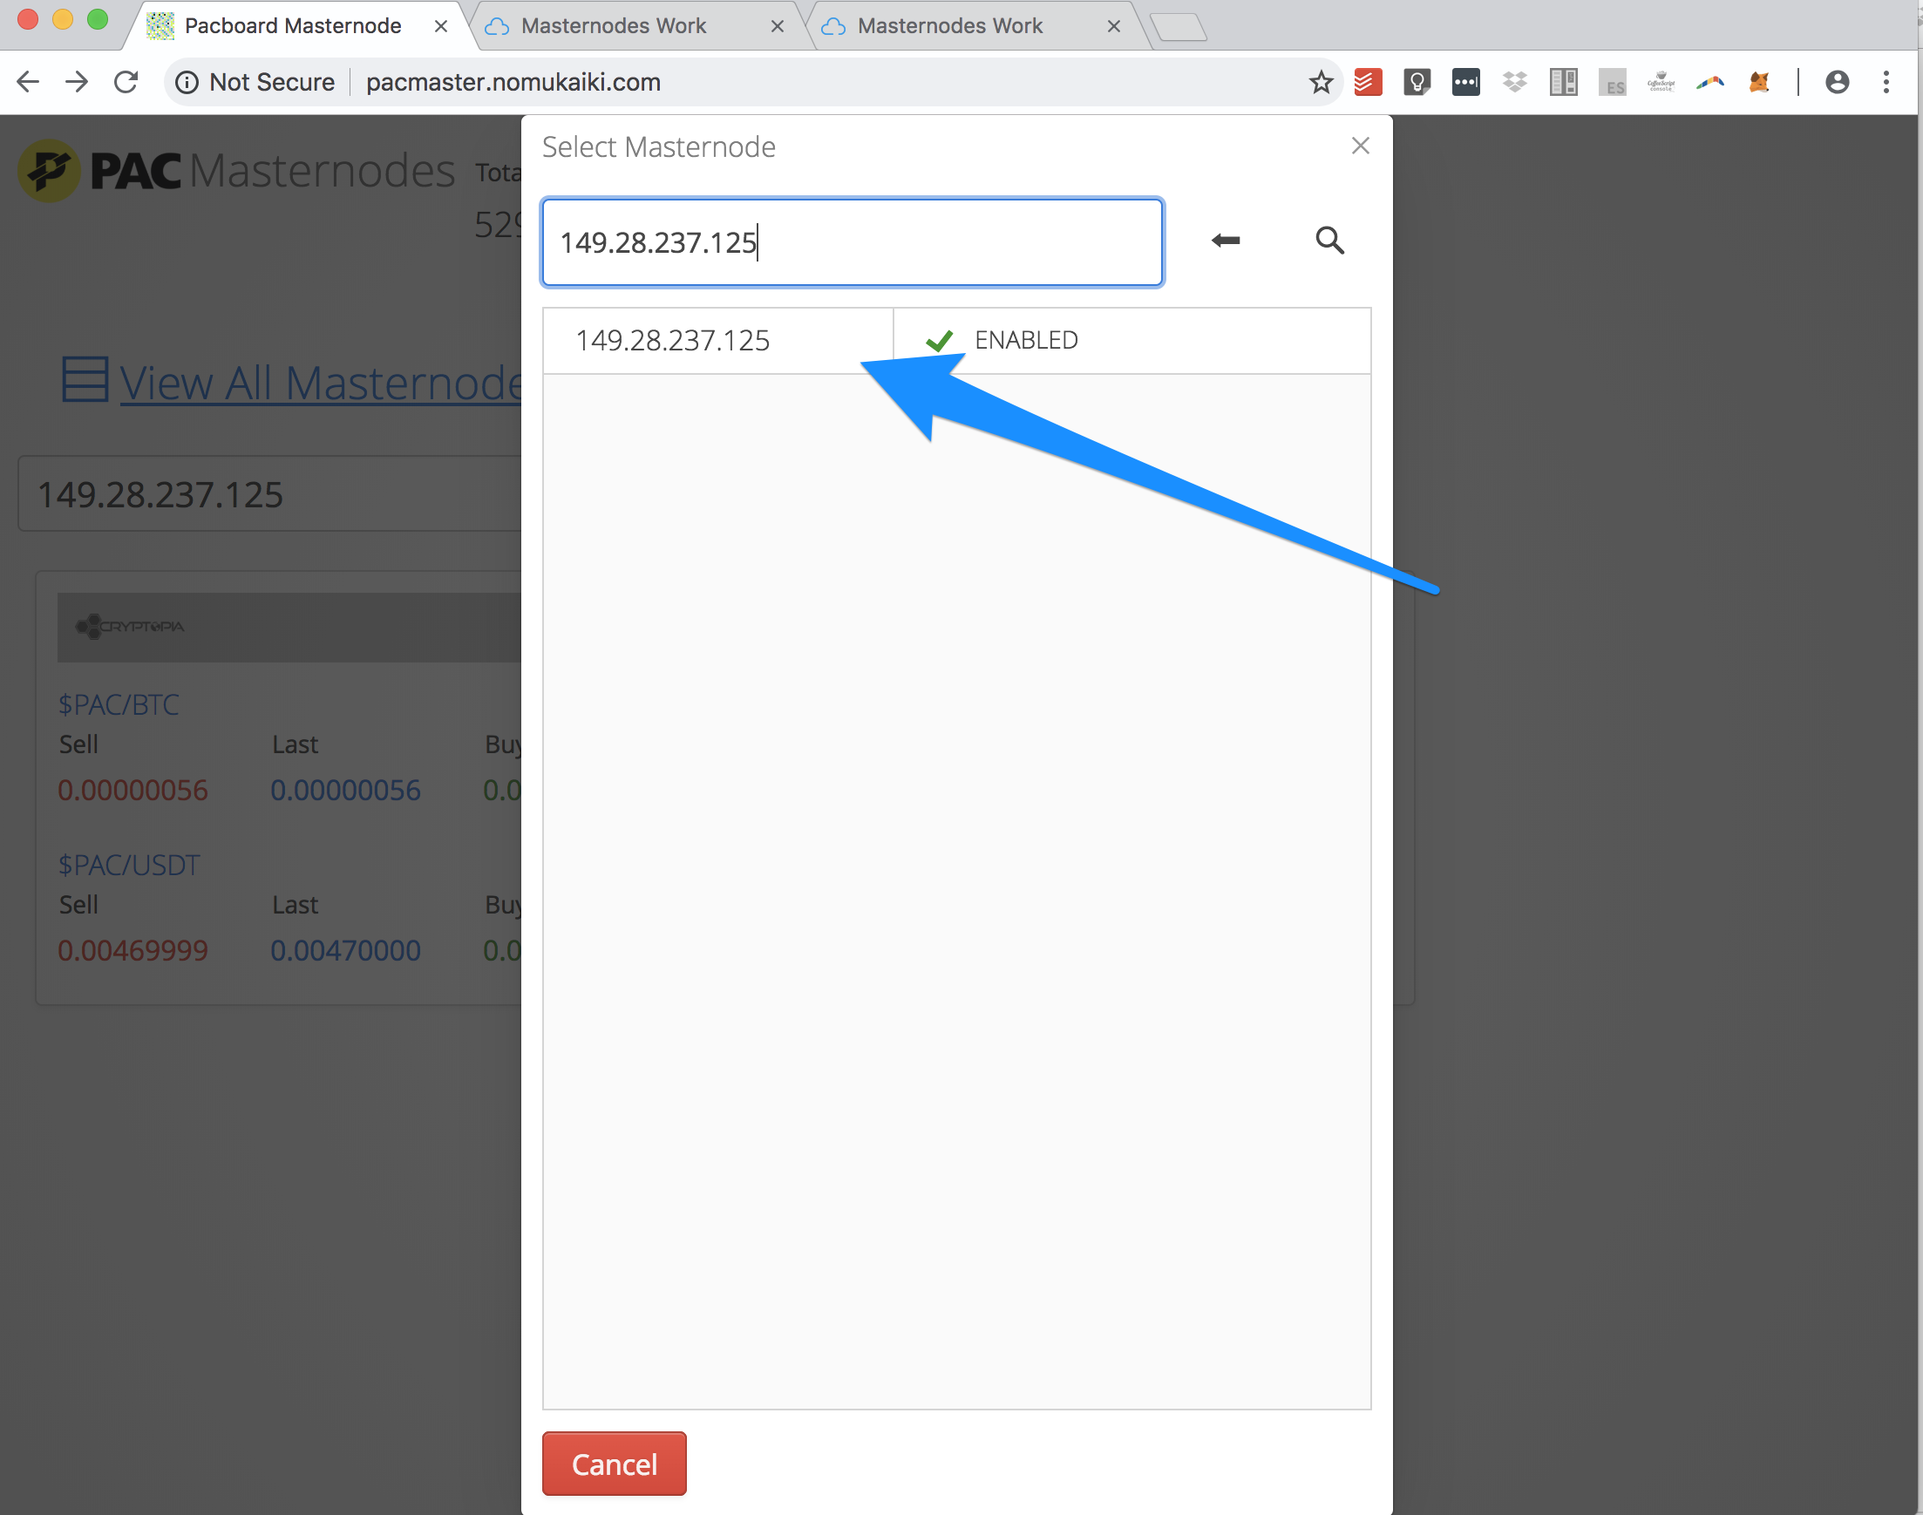
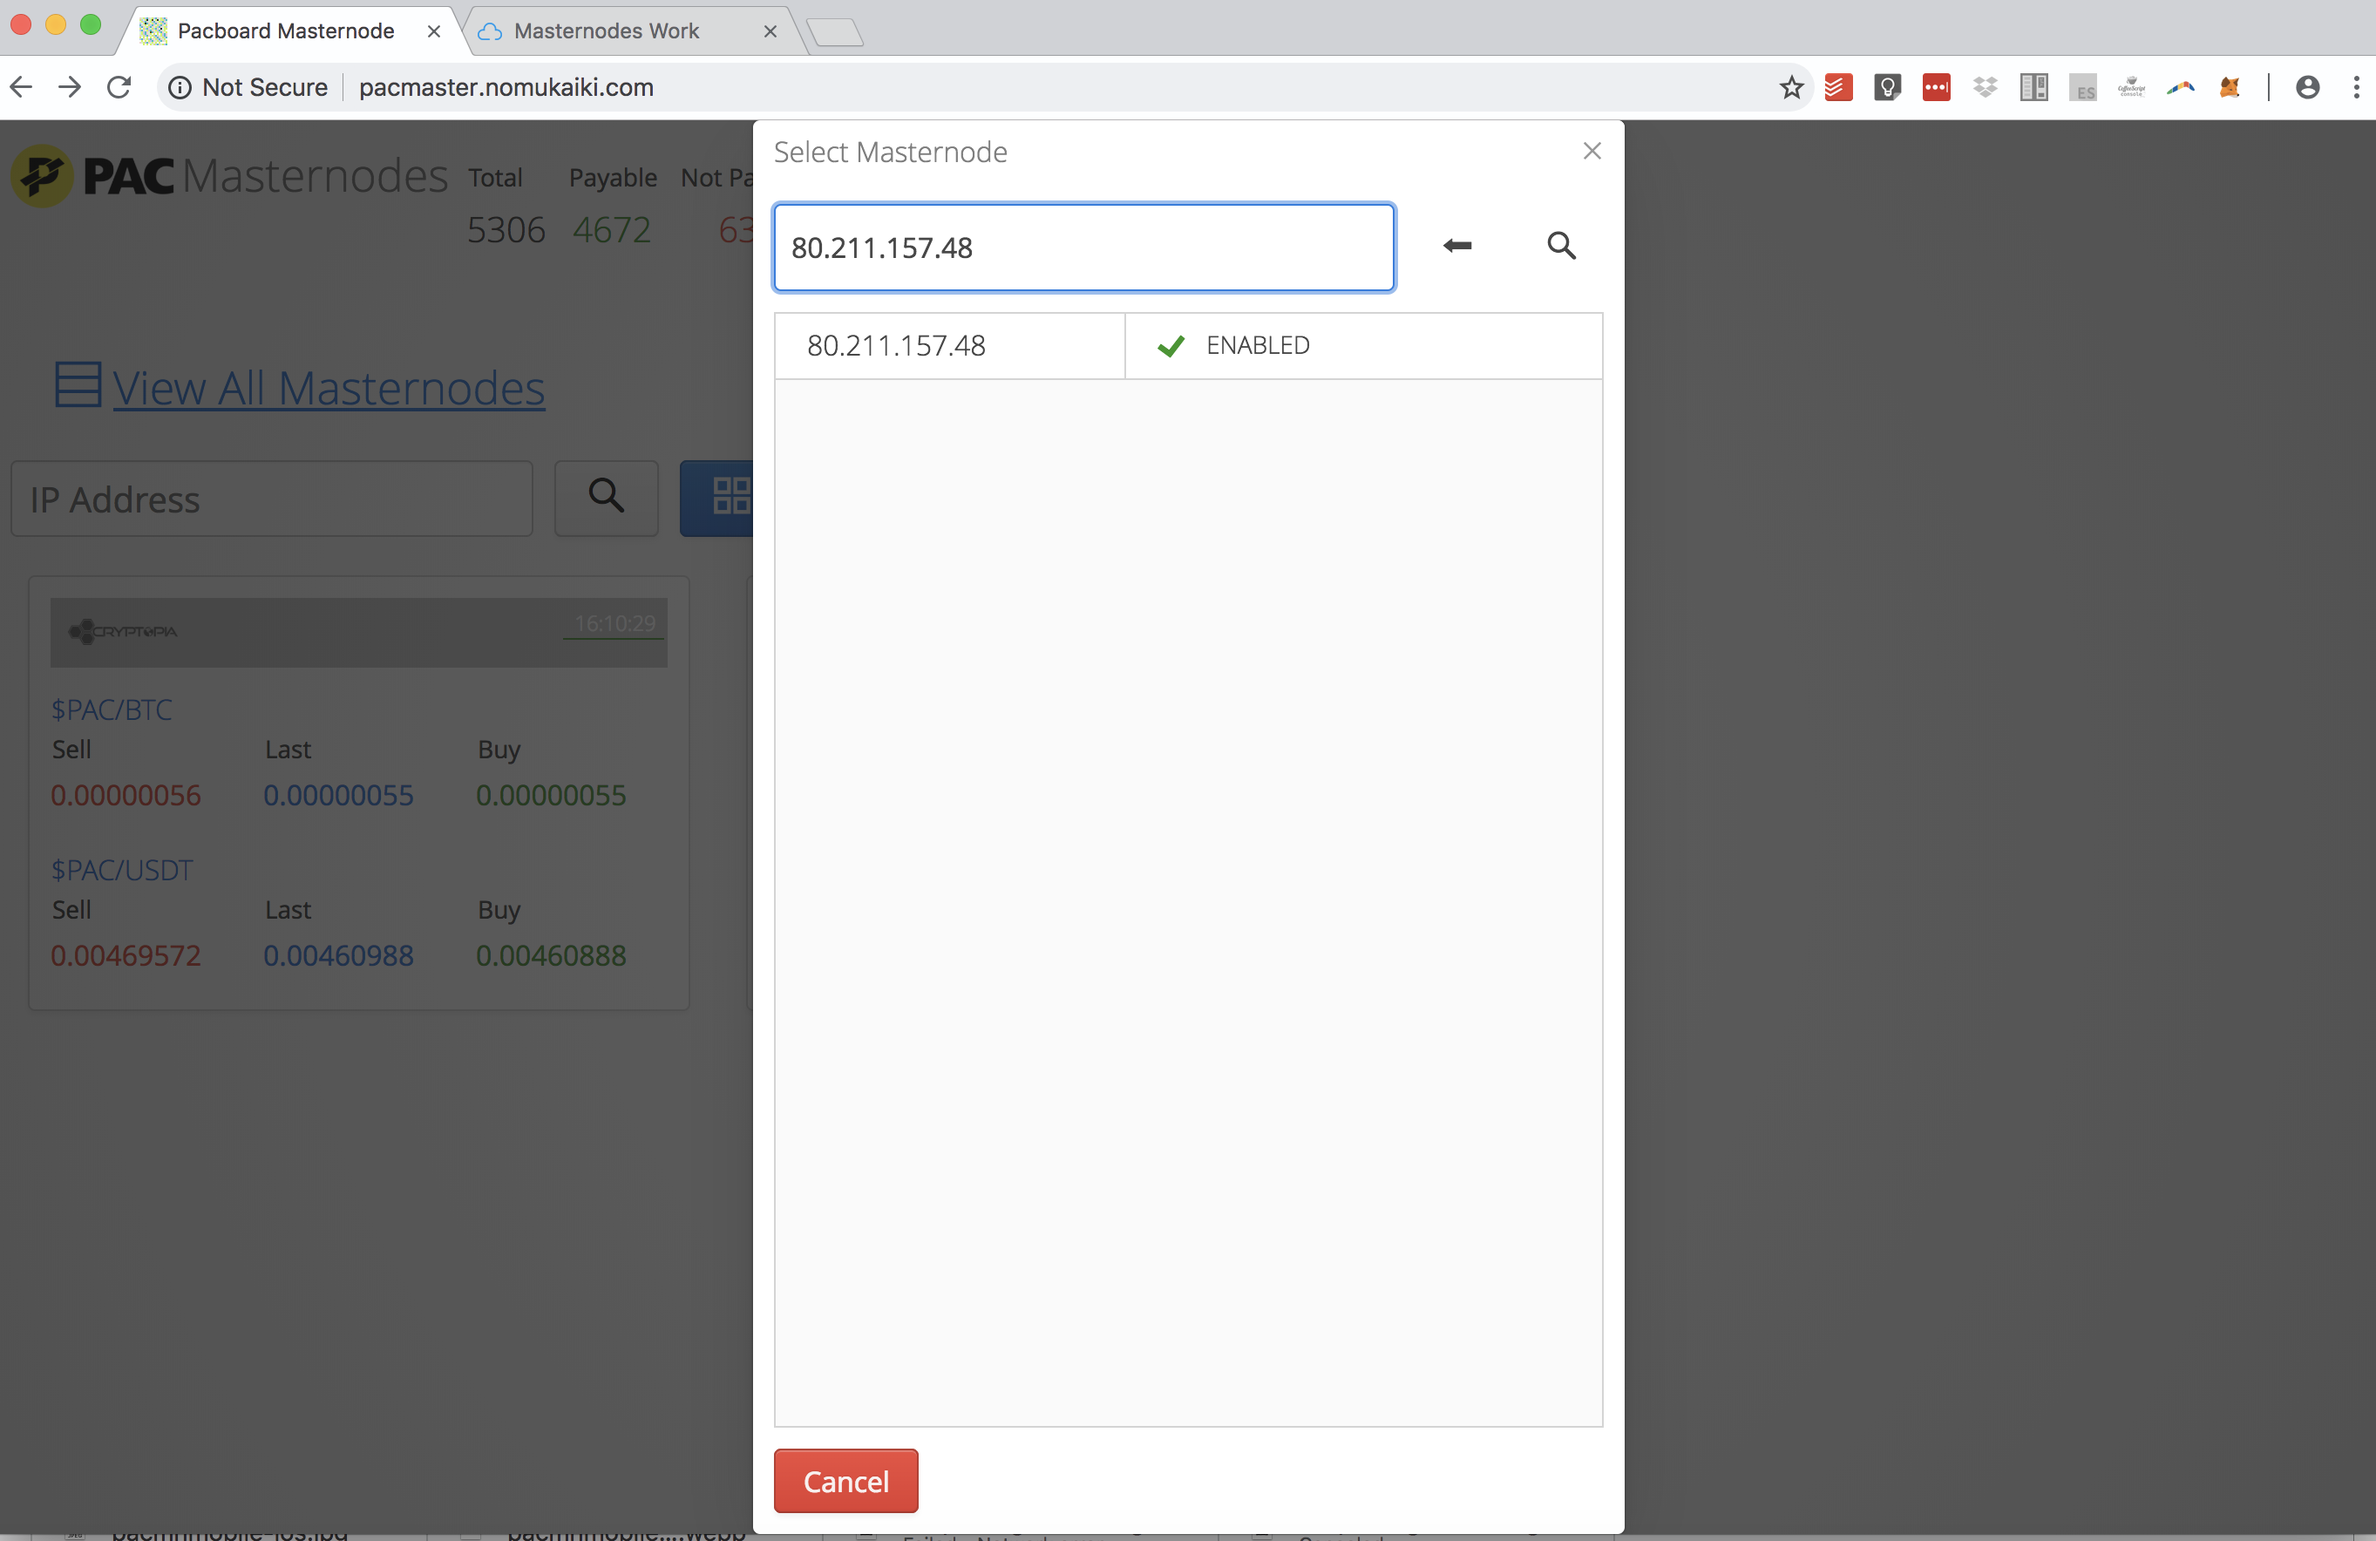
payment logic update

Changed region(s): [[0.0, 0.0, 1.0, 1.0], [0.0, 0.3107, 0.1541, 0.3418]]

diff --git a/monitor-mn.md b/monitor-mn.md
@@ -38,6 +38,7 @@ A quick reminder of where we are below:
 - [x] &nbsp; ~~4. Start your Master Node~~
 - [ ] &nbsp; <mark>5. Monitor your Master Node and collect rewards</mark>
 
+<br/>
 
 <div class="callout callout--info">
     <p>
@@ -45,15 +46,36 @@ A quick reminder of where we are below:
     </p> 
 </div>
 
+<br/>
+
+When you first create a new $Pac Masternode, it will go through several stages from its first inception to its first payment. Masternodes have a status on the $Pac network. Initially, when new, it will be in the state **WATCHDOG_EXPIRED** for about 15 minutes while your new MN's IP Address, Collateral Tx ID, etc is broadcast, validated, and propagated through the network. It will then go to **ENABLED** state. The is the state that you want your Masternode to be in **_All the Time_** as it means that it has been validated by the network and is available to receive reward payments. 
+
+In order for your $Pac Masternode to receive its first reward, it has to achieve `Active Time`. In addition to being in an **ENABLED** state, Active Time is achieved by being on the network as a new MN for a minimum of X minutes which is calculated as: `X = (Number of MNs) * 2.6 minutes`. So, if your MN is created when there are 5,000 MNs on the network, your new MN will achieve Active Time in 5,000 * 2.6 minutes, or 13,000 minutes or about 9 days and 40 miniutes. Once your Masternode achieves active time, it will be put into *Position #1* in the Payable Pool. Refer to the diagram below as we step through the lifecycle of Masternode payments.
+
+<br/>
+<img src="{% if jekyll.environment == 'production' %}{{ site.doks.baseurl }}{% endif %}/images/pacpayment.png" style="display: block;margin-left: auto;margin-right: auto;width: 100%;"/>
+
+
+- (1) This is where we are now, your new created $Pac Masternode is brand new on the network, and in about 15 minutes should go to "Enabled" status. As noted previously, **_DO NOT USE YOUR DESKTOP WALLET'S MASTERNODE TAB FOR STATUS!!! EVER!!!_**. Instead, we'll use one of the monitoring websites described in the next section.
+- (2) Once your new Masternode goes from `WATCHDOG_EXPIRED` to `ENABLED` status, your new MN now needs to achieve `Active Time` as described above.
+- (3) Now that your new MN has achieved `Active Time`, and is in `ENABLED` status, it will immediately get "pushed" into position 1 in the payable pool, which is the front 10% of enabled MNs active on the network. As an example, if there are 5,000 MNs enabled in the network, the front 10% payable pool would be those MNs in position 1-500. 
+- (4) Quorum selection for the Masternode to get paid in the next mined block on the block chain uses an algorithm that is random with increasing probability of getting selected based on the amount of time spent in the payable pool. Remember, your position is relative and probabilistic, and as new MNs join the network achieving their own active time, all other MNs will get pushed back 1 in the queue.
+- (5) Each block mined on the blockchain distributes 10,350 $Pac to the selected MN for rewards payment. Every MN in the queue moves up 1 in position.
+- (6) Your Masternode gets selected and paid, _Yippeee!!!_. Your MN will now go to the end of the payable queue.
+
+You can find details about the payment logic from the excellent [Dash documentation portal](https://docs.dash.org/fr/latest/masternodes/understanding.html#payment-logic){:target="_blank"}.
+
+Next let's go to some online monitors where we can see your new $Pac Masternode's **status** and other statistics.
+
 
 # $Pac Masternode Monitoring Websites
 
 Next we will use one of the web based monitoring tools for your new $Pac Masternode. The web based monitoring apps are important, and you should get to know them. Not only do they have some important information, but they can also be sent as links to your mobile phone (in addition to the mobile monitoring apps in the next section).
-The reason why we want to use a monitor site/app **_AND NOT_** the desktop wallet is because of 2 reasons: 1) Monitoring sites are connected to the network, and now the $Pac network sees your Masternode in terms of status is all that matters in terms of getting rewards (it is after all, a decentralized, quorum based network) and 2) as mentioned previously, the desktop wallet has a known bug that shows the wrong status and it will both freak you out as well as cause constant heartburn looking at it. **_THE DESKTOP WALLET FOR MN STATUS IS EVIL_**. Repeat that again and you will be fine.
+The reason why we want to use a monitor site/app **_AND NOT_** the desktop wallet is because of 2 reasons: 1) Monitoring sites are connected to the network, and how the $Pac network sees your Masternode in terms of status is all that matters in terms of getting rewards (it is after all, a decentralized, quorum based network) and 2) as mentioned previously, the desktop wallet has a known bug that shows the wrong status and it will both freak you out as well as cause constant heartburn looking at it. **_THE DESKTOP WALLET FOR MN STATUS IS EVIL_**. Repeat that again and you will be fine.
 
-In order for your $Pac Masternode to receive its first reward, it has to achieve "Active Time". In addition to being in an **ENABLED** state, Active Time is achieved by being on the network as a new MN for a minimum of X minutes which is calculated as: **X = (Number of MNs) * 2.6 minutes**. So, if your MN is created when there are 5,000 MNs on the network, your new MN will achieve Active Time in 5,000 * 2.6 minutes, or 13,000 minutes or about 9 days and 40 miniutes. Once your Masternode achieves active time, it will be put into *Position #1* in the Payable Pool (more on that later).
 
-Click the following link which will open in a new browser window: [http://pacmaster.nomukaiki.com/](http://pacmaster.nomukaiki.com/){:target="_blank"}. Enter your Masternode's IP Address in the field indicated and click the search button:
+
+Click the following link (an excellent web monitor from Nomukaiki) which will open in a new browser window: [http://pacmaster.nomukaiki.com/](http://pacmaster.nomukaiki.com/){:target="_blank"}. 
 
 <br/>
 
@@ -61,21 +83,38 @@ Click the following link which will open in a new browser window: [http://pacmas
 
 <br/>
 
-This is an excellent web monitor from nomukaiki.
+Click the search button
 
-There are a few websites that help you to monitor your $Pac Masternode
+<br/>
 
-- [http://pacmaster.nomukaiki.com/](http://pacmaster.nomukaiki.com/){:target="_blank"}
+<img src="{% if jekyll.environment == 'production' %}{{ site.doks.baseurl }}{% endif %}/images/monitormn2.png" style="display: block;margin-left: auto;margin-right: auto;width: 75%;"/>
 
-- [http://monitor.masternodes.work/monitor](http://monitor.masternodes.work/monitor){:target="_blank"}
+<br/>
 
-- [http://stats.foxrtb.com/monitor.html](http://stats.foxrtb.com/monitor.html){:target="_blank"}
+Enter your MN's IP Address and select it. You should see something like the screen shot below. (Note, I used random MN's ip address for this example)
 
-You'll want to refer to one of these sites as your MN is running (as well as using the mobile apps in the next section) in order to see the status and position of your Masternode in the Payment Queue (first 2 links). In $Pac Masternode payment logic, each MN that is in **ENABLED** state and **Active** on the network holds a "position" in line for rewards. As each block is mined, and a reward awarded to the selected MN, each Masternode in the queue moves up one position. MN's eligible for payment must be in the front 10% of the queue, known as the "Payable Pool". The nuance here is that this pool is random with increasing probability of being selected the longer an MN is in the pool. So, for example, with 5,000 MNs on the network, the Payable Pool would consist of MN's in position 1-500 (front 10%). Your position once in the payable pool should only be indicative, as MNs may be selected at random as soon as they enter the pool (at position 500 for example), or at any other position (hence the randomness). 
+<br/>
 
-You can find details about the payment logic from the excellent [Dash documentation portal](https://docs.dash.org/fr/latest/masternodes/understanding.html#payment-logic){:target="_blank"}.
+<img src="{% if jekyll.environment == 'production' %}{{ site.doks.baseurl }}{% endif %}/images/monitormn3.png" style="display: block;margin-left: auto;margin-right: auto;width: 50%;"/>
+
+<br/>
+
+Here you can see your Masternode's status (If it is in `WATCHDOG_EXPIRED` it should go to `ENABLED` in about 15 minutes), as well as the time left to be payable, this is the amount of time left to achieve Active Time as explained above. You can also see at the top the number of MNs on the network, including the number of MNs that are in a payable state. You can bookmark this link and send it to your smart phone which is handy for checking your MN's status. 
+
+Another good monitoring site is from [http://monitor.masternodes.work/monitor](http://monitor.masternodes.work/monitor){:target="_blank"}:
 
 
+<img src="{% if jekyll.environment == 'production' %}{{ site.doks.baseurl }}{% endif %}/images/monitormn4.png" style="display: block;margin-left: auto;margin-right: auto;width: 75%;"/>
+
+<br/>
+
+as well as [http://stats.foxrtb.com/monitor.html](http://stats.foxrtb.com/monitor.html){:target="_blank"}
+
+<img src="{% if jekyll.environment == 'production' %}{{ site.doks.baseurl }}{% endif %}/images/monitormn5.png" style="display: block;margin-left: auto;margin-right: auto;width: 75%;"/>
+
+<br/>
+
+You'll want to refer to one of these sites as your MN is running (as well as using the mobile apps in the next section) in order to see the status and position of your Masternode in the Payment Queue (first 2 links). 
 
 # Mobile $Pac Masternode Apps
 
@@ -90,10 +129,6 @@ One of the best ways to monitor your $Pac Masternode on the go is the official $
 <br/>
 
 <img src="{% if jekyll.environment == 'production' %}{{ site.doks.baseurl }}{% endif %}/images/pacmnmobile-android.png" style="display: block;margin-left: auto;margin-right: auto;width: 25%;"/>
-
-# Collecting Rewards
-
-
 
 # Next Step: Voting and Useful Links
 
